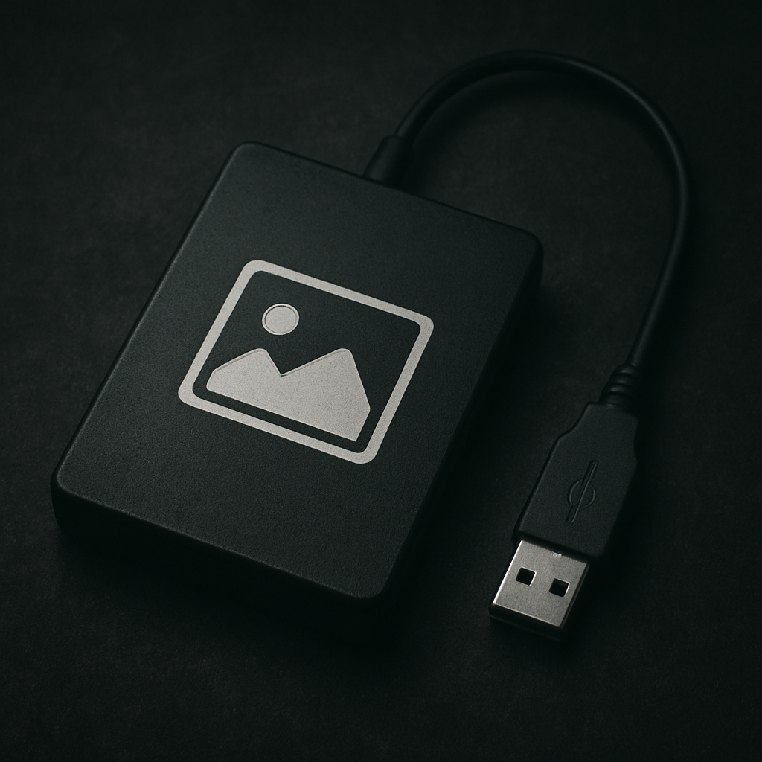
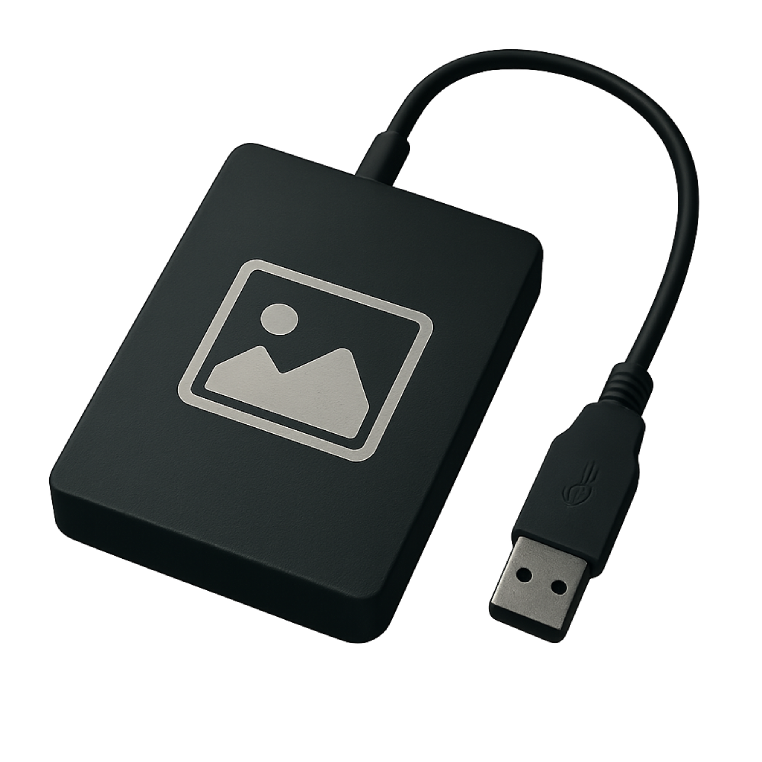
add: device types, DriveLetter, Serial, Type

diff --git a/Source/USBDeviceMonitor.Win/UsbDeviceInfo.cs b/Source/USBDeviceMonitor.Win/UsbDeviceInfo.cs
@@ -1,0 +1,103 @@
+#pragma warning disable CA1416 // Validate platform compatibility
+using System.Management;
+using System.Text.RegularExpressions;
+
+namespace USBDeviceMonitor.Win
+{
+    public class UsbDeviceInfo
+    {
+        private static readonly Regex _vidPidRegex =
+            new(@"VID_([0-9A-F]{4})&PID_([0-9A-F]{4})\\(.+)", RegexOptions.IgnoreCase);
+
+        public string DeviceId { get; }
+        public string PNPDdeviceId { get; }
+        public string VendorId { get; }
+        public string ProductId { get; }
+        public string Serial { get; }
+        public string Description { get; }
+        public string DriveLetter => FindDriveLetter(PNPDdeviceId);
+        public UsbDeviceType Type { get; }
+
+        public UsbDeviceInfo(ManagementBaseObject device)
+        {
+            string deviceId = device["DeviceID"]?.ToString() ?? string.Empty;
+            string description = device["Description"]?.ToString() ?? string.Empty;
+            string pNPDdeviceId = device["PNPDeviceID"]?.ToString() ?? string.Empty;
+
+            var (vid, pid, serial) = ParseDeviceIds(deviceId);
+
+            DeviceId = deviceId;
+            PNPDdeviceId = pNPDdeviceId;
+            VendorId = vid;
+            ProductId = pid;
+            Serial = serial;
+            Description = description;
+            Type = GetTypeFromDeviceId(deviceId);
+        }
+
+        private static UsbDeviceType GetTypeFromDeviceId(string deviceId)
+        {
+            if (deviceId.StartsWith("USBSTOR\\", StringComparison.OrdinalIgnoreCase))
+                return UsbDeviceType.Storage;
+            if (deviceId.StartsWith("HID\\", StringComparison.OrdinalIgnoreCase))
+                return UsbDeviceType.HumanInterface;
+            if (deviceId.StartsWith("USBPRINT\\", StringComparison.OrdinalIgnoreCase))
+                return UsbDeviceType.Printer;
+            if (deviceId.StartsWith("USBVIDEO\\", StringComparison.OrdinalIgnoreCase))
+                return UsbDeviceType.Video;
+            if (deviceId.StartsWith("BTHENUM\\", StringComparison.OrdinalIgnoreCase))
+                return UsbDeviceType.Bluetooth;
+            if (deviceId.StartsWith("WPD\\", StringComparison.OrdinalIgnoreCase) ||
+                deviceId.StartsWith("WPDBUSENUM\\", StringComparison.OrdinalIgnoreCase))
+                return UsbDeviceType.MediaDevice;
+            if (deviceId.StartsWith("USB\\", StringComparison.OrdinalIgnoreCase))
+                return UsbDeviceType.Generic;
+
+            return UsbDeviceType.None;
+        }
+
+        private static (string vid, string pid, string serial) ParseDeviceIds(string? deviceId)
+        {
+            if (!string.IsNullOrEmpty(deviceId))
+            {
+                var match = _vidPidRegex.Match(deviceId);
+                if (match.Success)
+                {
+                    return (
+                        match.Groups[1].Value, // VID
+                        match.Groups[2].Value, // PID
+                        match.Groups[3].Value  // Серийный хвост
+                    );
+                }
+            }
+
+            return (string.Empty, string.Empty, string.Empty);
+        }
+
+        private static string FindDriveLetter(string? pnpDeviceId)
+        {
+            if (string.IsNullOrEmpty(pnpDeviceId))
+                return string.Empty;
+
+            try
+            {
+                using var searcher = new ManagementObjectSearcher("SELECT * FROM Win32_DiskDrive WHERE InterfaceType='USB'");
+                foreach (var logical in from ManagementObject drive in searcher.Get().Cast<ManagementObject>()
+                                        where drive["PNPDeviceID"]?.ToString()?.Equals(pnpDeviceId, StringComparison.OrdinalIgnoreCase) == true
+                                        from ManagementObject partition in drive.GetRelated("Win32_DiskPartition")
+                                        from ManagementObject logical in partition.GetRelated("Win32_LogicalDisk")
+                                        select logical)
+                {
+                    return logical["DeviceID"]?.ToString() ?? string.Empty;
+                }
+            }
+            catch
+            {
+                // ignore errors and return empty
+            }
+
+            return string.Empty;
+        }
+    }
+}
+#pragma warning restore CA1416 // Validate platform compatibility

diff --git a/Source/USBDeviceMonitor.Win/UsbDeviceMonitor.cs b/Source/USBDeviceMonitor.Win/UsbDeviceMonitor.cs
@@ -1,67 +1,9 @@
 #pragma warning disable CA1416 // Validate platform compatibility
 using System.Management;
 using System.Reactive.Subjects;
-using System.Text.RegularExpressions;
 
 namespace USBDeviceMonitor.Win
 {
-    public interface IUsbDeviceMonitor
-    {
-        IEnumerable<UsbDeviceInfo> GetConnectedDevices();
-        IObservable<UsbDeviceInfo> DeviceConnected { get; }
-        IObservable<UsbDeviceInfo> DeviceDisconnected { get; }
-        void StartMonitoring();
-        void StopMonitoring();
-    }
-
-    public class UsbDeviceInfo
-    {
-        private static readonly Regex _vidPidRegex = new(@"VID_([0-9A-F]{4})&PID_([0-9A-F]{4})", RegexOptions.IgnoreCase);
-
-        public string DeviceId { get; }
-        public string VendorId { get; }
-        public string ProductId { get; }
-        public string Description { get; }
-
-        public UsbDeviceInfo(string? deviceId, string? vendorId, string? productId, string? description)
-        {
-            DeviceId = deviceId ?? string.Empty;
-            VendorId = vendorId ?? string.Empty;
-            ProductId = productId ?? string.Empty;
-            Description = description ?? string.Empty;
-        }
-
-        public UsbDeviceInfo(ManagementBaseObject device)
-        {
-            string deviceId = device["DeviceID"]?.ToString() ?? string.Empty;
-            string description = device["Description"]?.ToString() ?? string.Empty;
-
-            var (vid, pid) = ParseDeviceIds(deviceId);
-
-            DeviceId = deviceId;
-            VendorId = vid;
-            ProductId = pid;
-            Description = description;
-        }
-
-        private static (string vid, string pid) ParseDeviceIds(string? deviceId)
-        {
-            try
-            {
-                if (deviceId is not null)
-                {
-                    var match = _vidPidRegex.Match(deviceId);
-                    return match.Success ? (match.Groups[1].Value, match.Groups[2].Value) : (string.Empty, string.Empty);
-                }
-                return (string.Empty, string.Empty);
-            }
-            catch
-            {
-                return (string.Empty, string.Empty);
-            }
-        }
-
-    }
 
     public partial class UsbDeviceMonitor : IUsbDeviceMonitor
     {
@@ -80,16 +22,40 @@ namespace USBDeviceMonitor.Win
             _disconnectWatcher = GetManagementEventWatcher("__InstanceDeletionEvent");
         }
 
-        public IEnumerable<UsbDeviceInfo> GetConnectedDevices()
+        public IEnumerable<UsbDeviceInfo> GetConnectedDevices(
+            UsbDeviceType types = UsbDeviceType.All,
+            Func<UsbDeviceInfo, bool>? predicate = null)
         {
             var devices = new List<UsbDeviceInfo>();
+
+            const string query = @"
+                SELECT DeviceID, Description, PNPDeviceID 
+                FROM Win32_PnPEntity 
+                WHERE DeviceID LIKE 'USB%'";
+
             try
             {
-                using var searcher = new ManagementObjectSearcher("SELECT DeviceID, Description FROM Win32_PnPEntity WHERE DeviceID LIKE 'USB%'");
-                devices.AddRange(from ManagementObject managementObject in searcher.Get()
-                                 select new UsbDeviceInfo(managementObject));
+                using var searcher = new ManagementObjectSearcher(query);
+
+                foreach (ManagementObject obj in searcher.Get())
+                {
+                    string? deviceId = obj["DeviceID"]?.ToString();
+                    if (string.IsNullOrEmpty(deviceId))
+                        continue;
+
+                    var info = new UsbDeviceInfo(obj);
+                    if (!types.HasFlag(info.Type))
+                        continue;
+
+                    if (predicate == null || predicate(info))
+                        devices.Add(info);
+                }
             }
-            catch (ManagementException) { /* Обработка ошибок WMI */ }
+            catch (ManagementException)
+            {
+                // WMI failed, return partial or empty result
+            }
+
             return devices;
         }
 

diff --git a/Source/USBDevicesCheck/Program.cs b/Source/USBDevicesCheck/Program.cs
@@ -1,4 +1,5 @@
-using USBDeviceMonitor.Win;
+using System.Reactive.Linq;
+using USBDeviceMonitor.Win;
 
 namespace USBDevicesCheck;
 
@@ -8,16 +9,24 @@ internal class Program
     {
         var monitor = new UsbDeviceMonitor();
 
-        monitor.DeviceConnected.Subscribe(OnDeviceConnected);
-        monitor.DeviceDisconnected.Subscribe(OnDeviceDisconnected);
+        var subscription = monitor.DeviceConnected
+            .Where(d => d.Type.HasFlag(UsbDeviceType.Generic))
+            .Subscribe(OnDeviceConnected);
+
+        monitor.DeviceDisconnected
+            .Where(d => d.Type.HasFlag(UsbDeviceType.Generic))
+            .Subscribe(OnDeviceDisconnected);
 
         Console.WriteLine("Current USB devices:");
-        foreach (var device in monitor.GetConnectedDevices())
+        foreach (var device in monitor.GetConnectedDevices(UsbDeviceType.Generic))
         {
             Console.WriteLine(device.DeviceId);
             Console.WriteLine(device.ProductId);
             Console.WriteLine(device.VendorId);
             Console.WriteLine(device.Description);
+            Console.WriteLine(device.DriveLetter);
+            Console.WriteLine(device.Serial);
+            Console.WriteLine(device.Type);
             Console.WriteLine("-----");
         }
 
@@ -35,6 +44,9 @@ internal class Program
         Console.WriteLine(device.ProductId);
         Console.WriteLine(device.VendorId);
         Console.WriteLine(device.Description);
+        Console.WriteLine(device.DriveLetter);
+        Console.WriteLine(device.Serial);
+        Console.WriteLine(device.Type);
         Console.WriteLine("-----");
     }
 
@@ -46,6 +58,10 @@ internal class Program
         Console.WriteLine(device.ProductId);
         Console.WriteLine(device.VendorId);
         Console.WriteLine(device.Description);
+        Console.WriteLine(device.Description);
+        Console.WriteLine(device.DriveLetter);
+        Console.WriteLine(device.Serial);
+        Console.WriteLine(device.Type);
         Console.WriteLine("-----");
     }
 }

diff --git a/Source/USBDeviceMonitor.Win/UsbDeviceType.cs b/Source/USBDeviceMonitor.Win/UsbDeviceType.cs
@@ -1,0 +1,18 @@
+#pragma warning disable CA1416 // Validate platform compatibility
+namespace USBDeviceMonitor.Win
+{
+    [Flags]
+    public enum UsbDeviceType
+    {
+        None = -1,
+        Generic = 1,          // USB\
+        Storage = 2,          // USBSTOR\
+        HumanInterface = 4,   // HID\
+        Printer = 8,          // USBPRINT\
+        Video = 16,           // USBVIDEO\
+        Bluetooth = 32,       // BTHENUM\
+        MediaDevice = 64,     // WPD\, WPDBUSENUM\
+        All = Generic | Storage | HumanInterface | Printer | Video | Bluetooth | MediaDevice
+    }
+}
+#pragma warning restore CA1416 // Validate platform compatibility

diff --git a/Source/USBDeviceMonitor.Win/IUsbDeviceMonitor.cs b/Source/USBDeviceMonitor.Win/IUsbDeviceMonitor.cs
@@ -1,0 +1,16 @@
+#pragma warning disable CA1416 // Validate platform compatibility
+namespace USBDeviceMonitor.Win
+{
+    public interface IUsbDeviceMonitor
+    {
+        IEnumerable<UsbDeviceInfo> GetConnectedDevices(
+            UsbDeviceType types = UsbDeviceType.All,
+            Func<UsbDeviceInfo, bool>? predicate = null);
+
+        IObservable<UsbDeviceInfo> DeviceConnected { get; }
+        IObservable<UsbDeviceInfo> DeviceDisconnected { get; }
+        void StartMonitoring();
+        void StopMonitoring();
+    }
+}
+#pragma warning restore CA1416 // Validate platform compatibility
